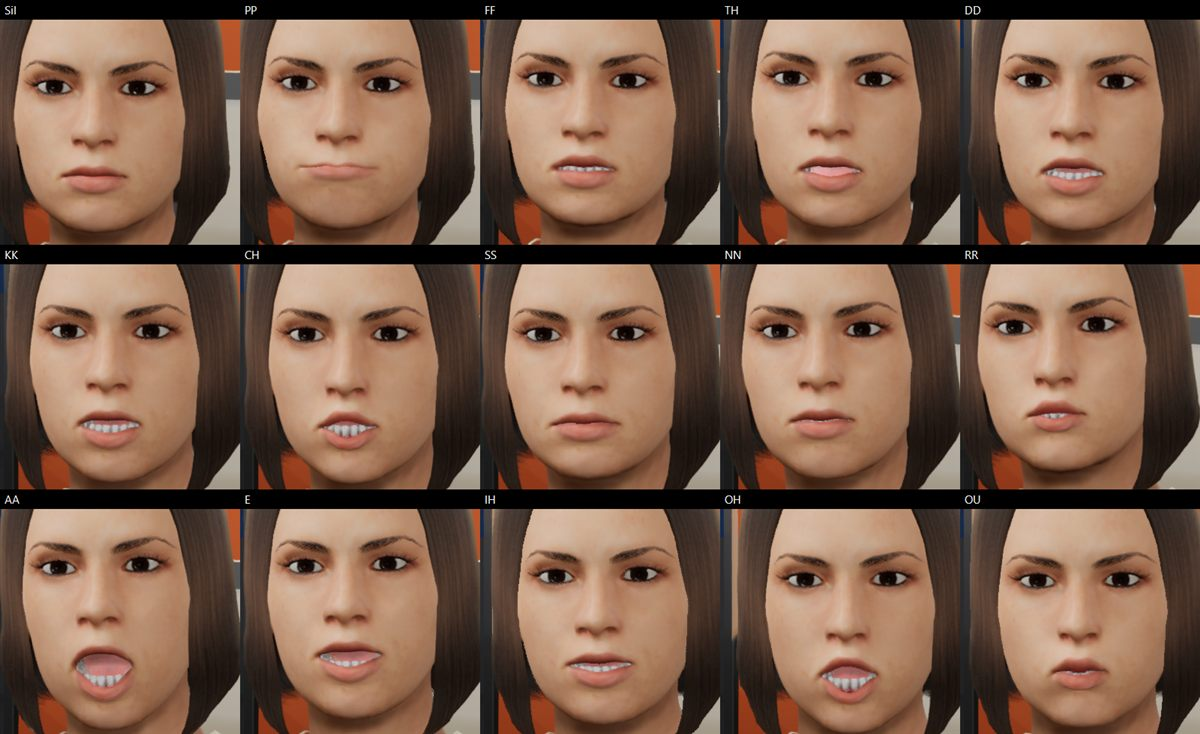
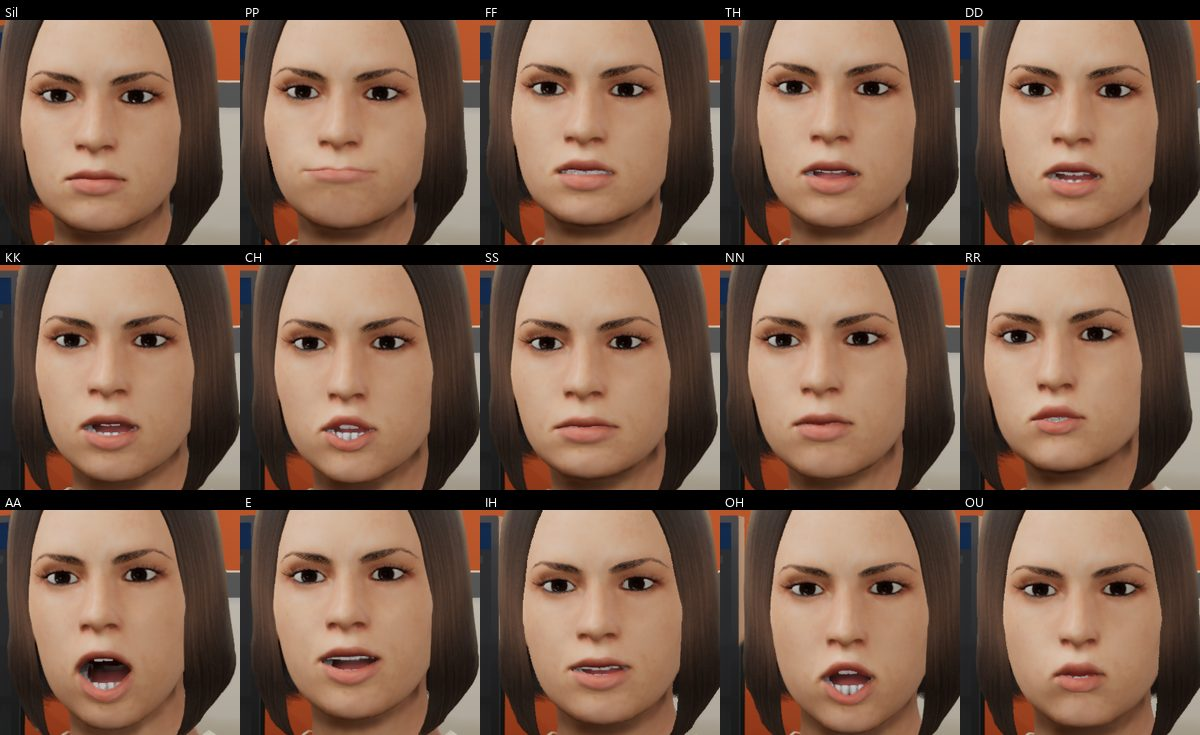
Rebuild Eliza's mouth and re-record her verification on content 1.0.2
A review of the 1.0.1 frames found her open mouth uncanny: whenever the
jaw opened (AA, E, OH, the widest frames of the line), a flat, evenly
lit, tongue-pink surface filled the opening from the upper lip down to
one row of teeth on the lower lip, with no upper teeth, no dark cavity
and grey wedges at the corners. The record had passed AA as "opens
with the teeth showing".

Measured on her export, three causes: MakeHuman seats the upper incisal
edges at the lips' meeting line, so the upper lip hid them; MPFB moves
the tongue proxy by a weighted average of base-mesh deltas, so it
dropped less than the jaw; and nothing in the mouth was darker than the
face (the cavity is body skin mapped to a mid-red, and the CC0 tongue
texture is lighter than her skin).

Her private content is now 1.0.2-mpfb (1.0.1 kept): teeth and tongue
3 mm lower in every shape key; the tongue's jawOpen shape rebuilt as
the jaw's own 20.9 degree rotation, fitted to the lower teeth, after
flattening the tongue; ray-cast ambient occlusion baked into a vertex
colour on the teeth, tongue and mouth cavity, which the skin and mouth
materials multiply into base colour and specular; a darker, redder
tongue tint. The build tools now also make the two 1.0.1 fixes
themselves (unit-scale Root, both IK rigs on every retarget op).

Re-run on 1.0.2, all in game at CLOSE through BuildNative.ps1's own
staging and gates (Assert-NoStrayEliza included):
- AA's opening box: median luminance 136 -> 33 against a 132 chin;
[…]

Changed region(s): [[0.0, 0.0, 1.0, 1.0], [0.5242, 0.2398, 0.5858, 0.3297], [0.925, 0.6894, 0.9558, 0.7193]]

diff --git a/Docs/verification-2026-11-13-eliza/README.md b/Docs/verification-2026-11-13-eliza/README.md
@@ -1,9 +1,13 @@
 # Eliza in game: verification, 2026-11-13
 
-Eliza's MPFB variant (`eliza_manifest.json` version `1.0.1-mpfb`), staged from private storage into
+Eliza's MPFB variant (`eliza_manifest.json` version `1.0.2-mpfb`), staged from private storage into
 `Content/Eliza` and authored into the stage with `MHLLM_RESIDENT=eliza`, then played in the game on
 Windows (UE 5.8.4, editor binary in `-game` with `-RenderOffScreen`, D3D12 on an RTX 4080 Laptop GPU).
 Every image here is a game frame through the player's view, not an editor viewport or a scene capture.
+
+This record was first made with her content 1.0.1. A review of those frames found her open mouth
+uncanny (section 2.3), so the mouth was rebuilt as 1.0.2 and every check and image below was made again
+on 1.0.2.
 
 > The six images total about 0.5 MB and are committed, like those in `Docs/verification-2026-08-17/`.
 > They are renders of Eliza: the rule in NOTICE.md applies to them too (never use them to build
@@ -15,16 +19,16 @@ Every image here is a game frame through the player's view, not an editor viewpo
 
 | Check | Result |
 |---|---|
-| Editor target (`MetaHumanLocalLLMEditor Win64 Development`) | builds; no warning in `CICompanion` or the game module |
-| Authoring, with `Scripts/BuildNative.ps1`'s own staging and gates (`Invoke-StageAuthoring`, `Assert-StageProvenance`) | `SUCCESS`; `resident: ELIZA placed (variant=mpfb, SKM_Eliza, tagged CompanionFace + FaceProfile=ARKit, idle=A_Eliza_Idle) at (330, 20, 0) yaw 90`; `Content/AUTHOR_RESULT.txt` vouches for the map |
-| The set's counts, against a mannequin run of the same tree | identical apart from the resident lines: 11/11 props imported and placed, NoAI slots 0 of 3 refused, 18 troffers, 6 display panels, 28 hall cabinets, 8 tape units with 16 reels, 3 of 3 CRT displays, 93 prop materials re-homed |
+| Editor target (`MetaHumanLocalLLMEditor Win64 Development`) | builds; the only compiler output is three C4996 deprecation warnings inside engine headers (`Character.h`, `FontFace.h`, `SoundWaveProcedural.h`), none in project code |
+| Authoring, with `Scripts/BuildNative.ps1`'s own staging and gates (`Invoke-StageAuthoring`, `Assert-NoStrayEliza`, `Assert-StageProvenance`) | `SUCCESS`; `resident: ELIZA placed (variant=mpfb, SKM_Eliza, tagged CompanionFace + FaceProfile=ARKit, idle=A_Eliza_Idle) at (330, 20, 0) yaw 90`; `Content/AUTHOR_RESULT.txt` vouches for the map |
+| The set's counts, against a mannequin run of the same tree | identical apart from the resident lines and the map's size: 11/11 props imported and placed, NoAI slots 0 of 3 refused, 18 troffers, 6 display panels, 28 hall cabinets, 8 tape units with 16 reels, 3 of 3 CRT displays, 93 prop materials re-homed |
 | Face binding (game log) | `Face profile 'ARKit': all 37 curves resolved on 'SKM_Eliza'`, `Face tuning for 'Eliza': gain 1.00 (tag FaceGain=1), pose cap 1.00 (tag FacePoseCap=1)`, `Face driver bound to 'Eliza': 37/37 profile curves resolved.` |
 | Facing | yaw 90 faces the call camera with her eyes visible (HOME below) |
 | Idle (`A_Eliza_Idle`, Epic's `MM_Idle` retargeted) | moves like `MM_Idle`: over the 7.57 s loop the head travels 0.73 cm, the pelvis 0.35 cm and each foot 0.14 cm in Z (limit 2 cm); the last frame matches the first to 0.03 cm |
-| Visemes (face self-test, one frame at each peak) | all 15 distinct; AA opens with the teeth showing, PP closes the lips, OU rounds them, TH shows the tongue |
-| Lip-sync, `Docs/verification-2026-08-17/lipcheck.py` with the boxes re-measured for her | mouth **4.60** reversals/s speaking against **0.47** quiet (**9.82x**), cheek control **0.15** rev/s: `VERDICT: mouth articulates` (targets: 2.5 rev/s, 2.0x, control 0.3 or less) |
-| Blink | both lids close (eyeBlink 0.97 in the frame) |
-| Gaze, 750 idle frames | both eyes "In" at once: 0.000; both "Out" at once: 0.000; the eyes move together (largest conjugate deflection 0.117) |
+| Visemes (face self-test, one frame at each peak) | all 15 distinct. With the jaw open (AA, E, OH, and the widest frame of the line) the upper incisors show under the upper lip, the mouth behind them is dark, and the tongue lies low behind the lower teeth; PP closes the lips, OU rounds them, TH puts the tongue between the teeth. Measured on the frames with the review's own boxes, 1.0.1 to 1.0.2: AA's opening box (x 915-965, y 528-552) has median luminance 136 to **33**, against 131 to 132 on her chin; the widest speaking frame, 114 to **32**; pixels darker than 60 in the mouth box (x 895-1025, y 512-585) rise from 2.5% to **19.7%** at AA, 2.9% to 8.8% at E, 2.6% to 9.0% at OH and 2.4% to 20.5% at the widest frame; the corner that read as a grey wedge at AA, (906, 540), goes from (118, 112, 108) to (54, 48, 46) |
+| Lip-sync, `Docs/verification-2026-08-17/lipcheck.py` with the boxes re-measured for her | mouth **5.20** reversals/s speaking against **0.47** quiet (**11.09x**), cheek control **0.15** rev/s: `VERDICT: mouth articulates` (targets: 2.5 rev/s, 2.0x, control 0.3 or less). 1.0.1 measured 4.60 against 0.47: the darker mouth makes the opening easier to see |
+| Blink | both lids close (eyeBlink 0.97 in two frames of the 120 fps pass) |
+| Gaze, 750 idle frames | both eyes "In" at once: 0.000; both "Out" at once: 0.000; the eyes move together (largest conjugate deflection 0.094) |
 | Materials | no missing-usage-flag or default-material warning in the game log (uncooked) |
 | Plugin specs, `MetaHumanLocalLLM.*` through `Scripts/RunTests.Common.ps1` | **339 of 339** pass, including `LiveLinkFaceSource`, `FaceProfile` (ARKitMH) and the tuning-tag specs |
 
@@ -32,7 +36,9 @@ Every image here is a game frame through the player's view, not an editor viewpo
 
 ![Eliza at CLOSE](eliza-close.jpg)
 
-## 2. Two content defects this found, fixed in her private content (1.0.0 to 1.0.1)
+## 2. Three content defects this found, fixed in her private content
+
+### 2.1 and 2.2: her skeleton and her idle (1.0.0 to 1.0.1)
 
 Her 1.0.0 content authored and bound 37/37, and the first game frame showed **no resident at all**.
 
@@ -47,8 +53,32 @@ Her 1.0.0 content authored and bound 37/37, and the first game frame showed **no
   the retarget op stack, so the batch retarget wrote the target's retarget pose on all 227 frames. A
   check that her feet moved 0.0 cm read that as planted feet. Fixed by assigning both rigs to every op.
 
-Both are recorded in `Docs/LEARNINGS.md` section 1.5. Version 1.0.0 is kept beside 1.0.1 in private
-storage, and her provenance record carries the change.
+1.0.1 made both fixes by hand on the imported asset. The tool that builds her in Unreal now makes them
+itself, so the 1.0.2 rebuild came out with a unit-scale `Root` and an idle that moves exactly as 1.0.1's did.
+
+### 2.3: her open mouth (1.0.1 to 1.0.2)
+
+1.0.1 passed the self-test above as "AA opens with the teeth showing". A review of its frames found the
+opposite of a mouth: whenever her jaw opened (AA, E, OH, and the widest frames of the line), a flat,
+evenly lit, tongue-pink surface filled the opening from the upper lip down to one row of teeth on the
+lower lip, with no upper teeth, no dark cavity, and grey wedges at the corners. Measured on her export,
+three things made it:
+
+- **The upper teeth sat behind the upper lip.** They stay put under `jawOpen`, as they should, but
+  MakeHuman places their edges at the lips' meeting line, so the upper lip hid them in every open shape.
+- **The tongue dropped less than the jaw.** MPFB moves the tongue proxy by a weighted average of the base
+  mesh's deltas, not by the jaw's rotation, so its tip and front filled the opening.
+- **Nothing in the mouth was darker than the face.** The cavity is body skin mapped to a mid-red and lit
+  like her cheek, and the tongue's CC0 texture is lighter than her skin.
+
+Fixed in her export and her materials: every tooth and the tongue sit 3 mm lower in every shape key (a
+translation, so every delta is kept; a few millimetres of upper incisor showing below a relaxed upper
+lip is usual in adults); the tongue's `jawOpen` key is rebuilt as the jaw's own rotation (20.9 degrees, fitted to the
+lower teeth's key) after flattening the tongue toward its floor; ambient occlusion is baked by ray
+casting into a vertex colour on the teeth, the tongue and the body's mouth cavity, keeping each vertex's
+most open view over AA, E, OH and TH, and the skin and mouth materials multiply base colour and specular
+by it; and the tongue's material darkens and reddens its texture. 1.0.1 is kept beside 1.0.2 in private
+storage, her provenance record carries the change, and `Docs/LEARNINGS.md` section 1.5 has the lesson.
 
 ## 3. Method
 
@@ -62,12 +92,13 @@ storage, and her provenance record carries the change.
   streaming, and [`capture_resident.py`](capture_resident.py) takes the frames from inside it. HOME is
   the stage director's own call framing (`MHLLM_OPENING_SHOT=0`: 430 cm, horizontal FOV 48). This
   branch has no CLOSE shot of its own, so CLOSE is the stage design's punch-in geometry: 231 cm in front
-  of her eyes, 80 mm (horizontal FOV 25.4), level.
+  of her eyes, 80 mm (horizontal FOV 25.4), at eye height and aimed 10 cm below her eyes.
 - **Lip-sync.** The line is spoken by `UCompanionRuntimeSubsystem::SpeakLiteral`, exactly what the
   opening line calls, with no voice service configured: `Lip-sync source=ESTIMATE from text alone (no
   voice service): 61 spans over 6.75s.` So the mouth is timed by the spelling estimate, not by Kokoro
   audio and phoneme alignment. The strip is every other frame from the start of the line to 2 s after
-  it, plus a quiet pass; each frame's morph weights are in the capture manifest.
+  it, plus a quiet pass; each frame's morph weights are in the capture manifest. The speaking sheet below
+  always includes the widest frame of the line (`jawOpen` 0.75).
 - **lipcheck.py** ran on 460x460 greyscale crops at (730, 300) of the CLOSE frames, with
   `MOUTH = (160, 190, 295, 275)` and `CONTROL = (250, 140, 300, 180)` (a cheek patch under her left eye),
   checked by eye first:
@@ -90,6 +121,7 @@ storage, and her provenance record carries the change.
 - **Lip-sync against real audio.** Kokoro and the aligner were not reachable from the capture machine.
 - **Her MetaHuman variant**, which does not exist yet (NOTICE.md, "Still open" item 1).
 - **Look, judged by eye:** she reads as a credible late-1970s lab professional from the call camera
-  and from behind. Three notes for the owner: her resting brows sit low, so her neutral face reads a
+  and from behind. Four notes for the owner: her resting brows sit low, so her neutral face reads a
   little stern rather than approachable; there is a small dark notch in the back hem of the sweater;
-  and a light hair-card tip shows by her left jaw at CLOSE.
+  a light hair-card tip shows by her left jaw at CLOSE; and with the jaw wide open, a premolar at her
+  left mouth corner still catches some light.

diff --git a/Docs/LEARNINGS.md b/Docs/LEARNINGS.md
@@ -108,6 +108,7 @@ crash-looped Ollama's tunnel. Fixed with two systemd units rather than one, deli
 | Interchange glTF material parents | Parent under `/InterchangeAssets/`, i.e. **plugin content the cook does not stage** — so every prop falls back to the engine default in the packaged game and *"looks exactly like textures failed to load"* | `967e302` |
 | `IKRetargeterController.set_ik_rig(TARGET, rig)` | Does **not** hand the target rig to the op stack (the source rig it does). Ops with no target rig retarget nothing, and `run_batch_retarget` still writes a full-length sequence: the target's retarget pose on every frame. Eliza's first idle was one static, leaning pose, and a "feet move 0.0 cm over the loop" check read it as planted feet. Call `assign_ik_rig_to_all_ops` for both rigs after `add_default_ops`, and measure that something MOVES (her head travels 0.73 cm over the loop, like `MM_Idle`'s) | Eliza content 1.0.1 |
 | A skeletal-mesh FBX in metres | UE puts the unit conversion on the **root bone as a 100x scale** and leaves every child translation in metres, with or without *Convert Scene Unit*. The bind pose renders perfectly; a retargeted animation keys the root at scale 1, so in game **every bone collapses into the pelvis** and the mesh vanishes behind a desk. Check the root's reference scale after import; `SkeletonModifier` can take the scale out while keeping each bone's global position (a pose-only commit updates the mesh, not the `USkeleton`) | Eliza content 1.0.1 |
+| MPFB `FaceService.interpolate_targets` on proxies | Moves a proxy (tongue, teeth) by a weighted average of the base mesh's deltas, not by the jaw's rotation. Eliza's tongue dropped less than her lower teeth, so with the jaw open its lit front filled her mouth from the upper lip to the lower teeth; her upper incisal edges sat at the lips' meeting line, so nothing showed above; and her mouth cavity, body skin mapped to a mid-red, was lit like her cheek. A self-test that asked only whether the 15 visemes were distinct passed AA as "opens with the teeth showing". Rebuild the tongue's jaw shape from the rotation fitted to the lower teeth's own shape, bake occlusion inside the mouth, and look at what fills the opening: it must read darker than the chin | Eliza content 1.0.2 |
 
 ---
 

diff --git a/Docs/FACE-PIPELINE.md b/Docs/FACE-PIPELINE.md
@@ -171,11 +171,19 @@ were sculpted for. `MHLLM_FACE_GAIN` / `MHLLM_FACE_POSE_CAP` still win when set.
 unit is authored to sit on an open jaw; on hers its deltas are scaled to 0.4, because this profile
 also drives it with the jaw shut (Sil, NN, PP) and the full unit bulges the lips there.
 
-Checked in game on 2026-11-13 ([`verification-2026-11-13-eliza`](verification-2026-11-13-eliza/README.md)):
-both log lines above, the 15-viseme self-test (AA opens with the teeth showing, PP closes the lips, OU
-rounds them), a spoken line through `SpeakLiteral` measured with `lipcheck.py` (4.60 reversals/s
-speaking against 0.47 quiet, cheek control 0.15), a full close of both lids, and no crossed or
-wall-eyed gaze. The line was timed by the text estimate (no voice service on the capture machine).
+Her mouth is built for the open shapes (content 1.0.2). The tongue's `jawOpen` shape is the jaw's own
+rotation, fitted to the lower teeth, so the tongue lies low behind them instead of filling the opening;
+her teeth sit low enough that the upper incisors show under the upper lip; and the inside of the mouth
+carries baked ambient occlusion in a vertex colour (red channel, 1 outside the mouth), which her skin
+and mouth materials multiply into base colour and specular. Any new resident needs the same: look at
+what fills the opening at AA, which must read darker than the chin, not just at whether the shapes differ.
+
+Checked in game on 2026-11-13 ([`verification-2026-11-13-eliza`](verification-2026-11-13-eliza/README.md),
+content 1.0.2): both log lines above, the 15-viseme self-test (upper teeth and a dark mouth behind them
+at AA, E and OH; PP closes the lips, OU rounds them, TH shows the tongue between the teeth), a spoken line
+through `SpeakLiteral` measured with `lipcheck.py` (5.20 reversals/s speaking against 0.47 quiet, cheek
+control 0.15), a full close of both lids, and no crossed or wall-eyed gaze. The line was timed by the
+text estimate (no voice service on the capture machine).
 
 ### 3.3.2 Eliza's MetaHuman variant: `ARKitMH` over Live Link
 
